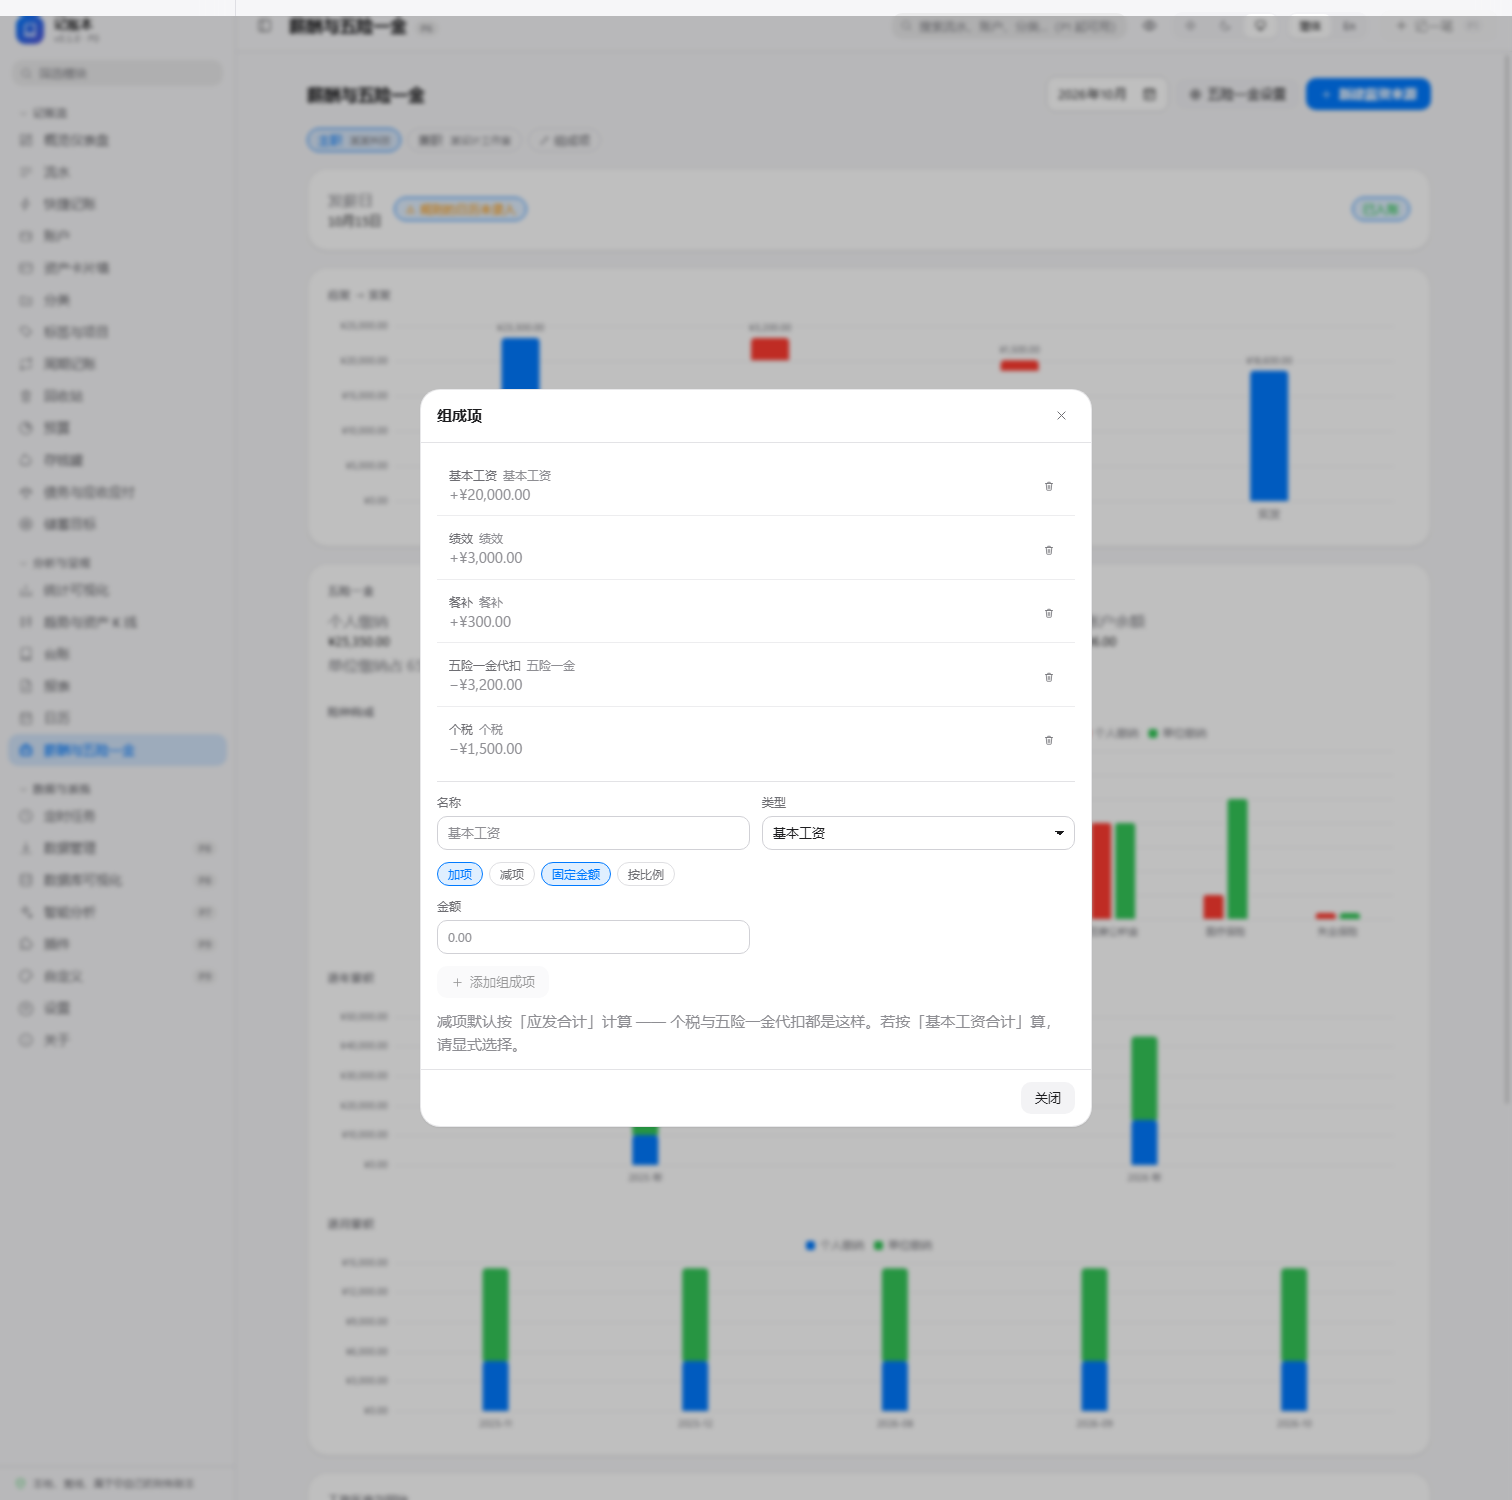
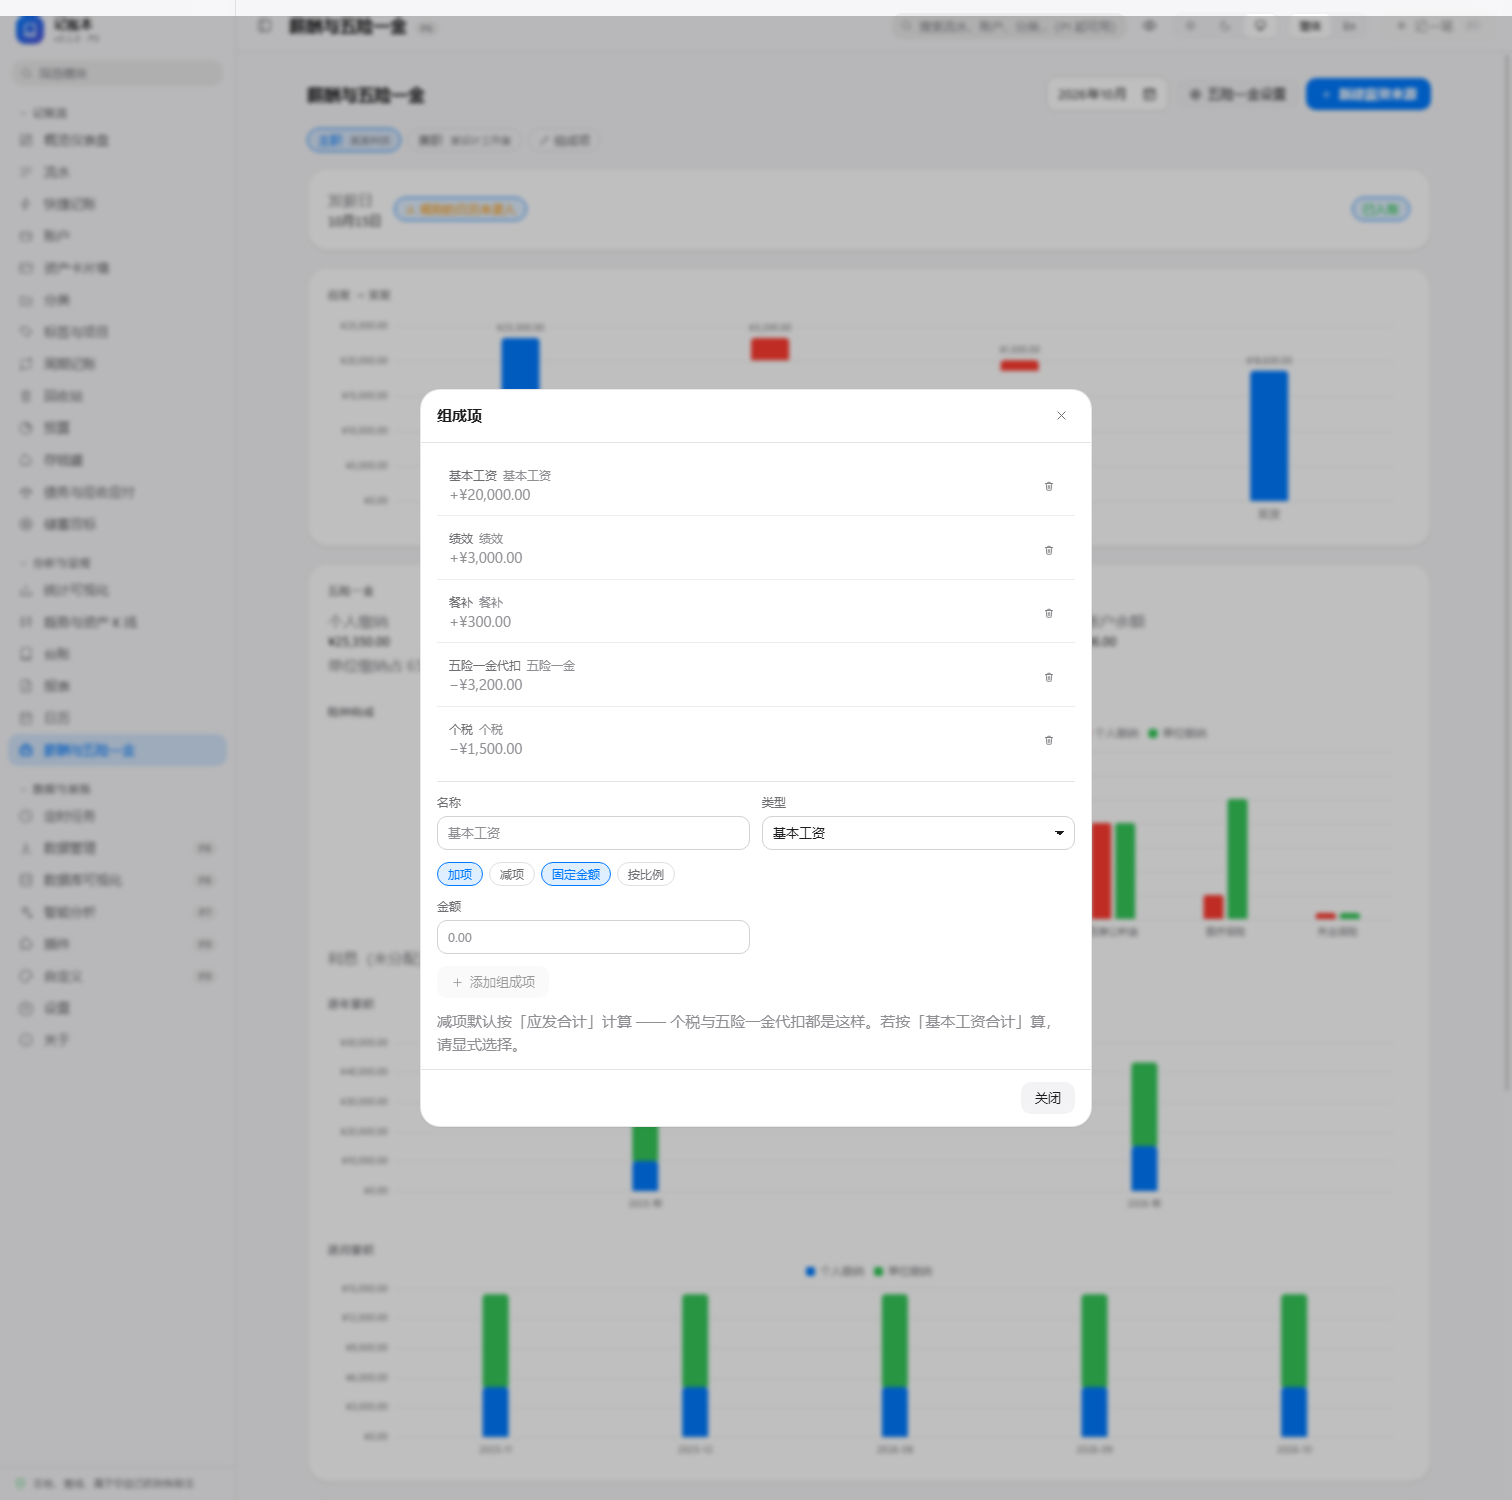
fix(P6): 补「提取记录」前端入口 + 修利息归属谎报 + 209 项用例
**一、「提取记录」原本没有前端入口。**
服务层、API 与用例一开始就齐全，但 `/payroll` 里**没有任何提取界面** ——
用户无法在应用里记一笔提取。**一个用户碰不到的功能不算交付。**

已在「五险一金设置」里补上：
* 提取列表（险种 / 原因 / 日期 / 金额 / 删除）；
* 险种 + 金额 + 日期 + 原因的表单；
* 余额不足时**把后端给的数字原样显示**，而不是只说"操作失败" ——
  后者会让用户不知道该改什么；
* 表单只列出**有个人账户**的险种（养老、医疗、公积金）。
  让失业/工伤/生育出现在这里只会让人以为可以提。

**二、利息归属曾经是错的。**
年度对账里的利息是**账户级**的，而模型里没有按险种记利息的字段。
我最初把它并进了"公积金或养老"其中之一，理由是"不留游离的键" ——
**那个理由站不住**：那笔钱被记到了一个它未必属于的账户上，
公积金的余额看着多了一截、养老的少了一截，**两处都不准**。

已改为把利息单独作为 `interest` 返回（**合计不变**，它本来就在合计里），
界面显示为「利息（未分配）」并附说明。
补两条用例：利息不混进任何险种；有多个账户时也不随便挑一个塞进去。
`docs/ACCEPTANCE_P6.md` §4 里那条"已知限制"随之改为"已修掉"。

**三、文档计数同步。**
五险一金用例 36 → 39，P6 合计 **208 → 209**；
`ACCEPTANCE_P6.md` 的 pytest 表、§2.3 标题里的数字、§1.6 的界面清单都已对齐；
§4 列表重新编号（原来因为删掉一条而跳号）。

验证
====
`pytest` 全绿（209 项），`ruff` 干净，`tsc --noEmit` 干净，`vite build` 通过。
截图重拍并核对 `p6-insurance.png`：提取列表有一条真实记录
（住房公积金 / 租房 / 2026-09-11 / −¥1,200.00）与完整表单；
同时确认了此前修的"已停用"标记与去星号的提示语。

diff --git a/web/src/pages/Payroll.tsx b/web/src/pages/Payroll.tsx
@@ -656,6 +656,18 @@ export function PayrollPage() {
                 </div>
                 {/* **逐年累积**：与逐月图各说一件事 ——
                     按月看节奏，按年看趋势。跨年的比例调整只有在按年图上才看得出来。 */}
+                {/* 利息单独列：它是账户级的，模型里没有按险种记利息的字段，
+                    因此**不摊到任何险种**上，而是明确标成"未分配" */}
+                {insurance.account_balances.interest ? (
+                  <p className="mt-1 text-ab-caption1 text-label-3">
+                    {t('payroll.unallocatedInterest')}
+                    {' '}
+                    {formatValue(insurance.account_balances.interest)}
+                    {' — '}
+                    {t('payroll.unallocatedInterestHint')}
+                  </p>
+                ) : null}
+
                 {insurance.by_year.length > 0 ? (
                   <div className="mt-3">
                     <div className="ab-section-label !px-0">{t('payroll.byYear')}</div>
@@ -1398,6 +1410,7 @@ function InsuranceDialog({
   const [profileId, setProfileId] = useState<number | null>(null)
   const [computed, setComputed] = useState<InsuranceCompute | null>(null)
   const [statement, setStatement] = useState<InsuranceStatement | null>(null)
+  const [withdrawals, setWithdrawals] = useState<InsuranceWithdrawal[]>([])
   const [busy, setBusy] = useState(false)
   const [error, setError] = useState<string | null>(null)
   const [profileOpen, setProfileOpen] = useState(false)
@@ -1412,8 +1425,14 @@ function InsuranceDialog({
     const chosen = profileId ?? profileList.items[0]?.id ?? null
     setProfileId(chosen)
     if (chosen !== null) {
-      setComputed(await api.computeInsurance(chosen))
-      setStatement(await api.insuranceStatement(chosen, Number(period.slice(0, 4))))
+      const [c, s, w] = await Promise.all([
+        api.computeInsurance(chosen),
+        api.insuranceStatement(chosen, Number(period.slice(0, 4))),
+        api.insuranceWithdrawals(chosen),
+      ])
+      setComputed(c)
+      setStatement(s)
+      setWithdrawals(w.items as unknown as InsuranceWithdrawal[])
     }
   }, [profileId, period])
 
@@ -1624,6 +1643,68 @@ function InsuranceDialog({
           </div>
         ) : null}
 
+        {/* 提取记录。**余额是算出来的**，因此提取必须是一条记录而不是"改余额" ——
+            用户从这里记一笔提取，余额会跟着减，且能追溯到日期与原因。 */}
+        {profileId !== null ? (
+          <div className="space-y-2 border-t border-separator/60 pt-3">
+            <div className="ab-section-label !px-0">{t('payroll.withdrawals')}</div>
+            {withdrawals.length === 0 ? (
+              <p className="text-ab-footnote text-label-3">{t('payroll.noWithdrawal')}</p>
+            ) : (
+              <div className="space-y-1">
+                {withdrawals.map((row) => (
+                  <div key={row.id} className="flex flex-wrap items-center gap-2 text-ab-footnote">
+                    <span className="min-w-0 flex-1 truncate text-label-2">
+                      {row.item_name}
+                      <span className="ml-1.5 text-ab-caption1 text-label-3">
+                        {t(`payroll.withdrawReason.${row.reason}`)}
+                      </span>
+                    </span>
+                    <span className="ab-tnum text-ab-caption1 text-label-3">{row.occurred_at}</span>
+                    <span className="ab-tnum text-negative">
+                      −{displayMinor(row.amount_minor, 'CNY')}
+                    </span>
+                    <button
+                      type="button"
+                      className="ab-icon-btn shrink-0 hover:text-negative"
+                      aria-label={t('common.delete')}
+                      onClick={() =>
+                        void (async () => {
+                          await api.deleteInsuranceWithdrawal(row.id)
+                          await load()
+                        })()
+                      }
+                    >
+                      <Icon name="trash" size={12} />
+                    </button>
+                  </div>
+                ))}
+              </div>
+            )}
+
+            <WithdrawalForm
+              items={computed?.items ?? []}
+              busy={busy}
+              error={error}
+              onSubmit={async (payload) => {
+                if (profileId === null) return
+                setBusy(true)
+                setError(null)
+                try {
+                  await api.addInsuranceWithdrawal({ profile_id: profileId, ...payload })
+                  await load()
+                } catch (cause) {
+                  // 余额不足是 409，要把后端给的数字原样显示出来 ——
+                  // 只说"操作失败"会让用户不知道该改什么
+                  setError(cause instanceof ApiError ? cause.detail : String(cause))
+                } finally {
+                  setBusy(false)
+                }
+              }}
+            />
+          </div>
+        ) : null}
+
         {/* 年度对账：**差异是这份报表的全部意义** */}
         {statement ? (
           <div className="space-y-2 border-t border-separator/60 pt-3">
@@ -1661,6 +1742,115 @@ function InsuranceDialog({
         }}
       />
     </Modal>
+  )
+}
+
+interface InsuranceWithdrawal {
+  id: number
+  item_id: number
+  item_name: string
+  amount_minor: number
+  occurred_at: string
+  reason: string
+}
+
+/**
+ * 记录一笔提取。
+ *
+ * 只列出**有个人账户**的险种：养老、医疗、公积金。
+ * 失业/工伤/生育没有个人账户，让它们出现在这里只会让人以为可以提。
+ */
+function WithdrawalForm({
+  items,
+  busy,
+  error,
+  onSubmit,
+}: {
+  items: { item_id: number; kind: string; name: string; to_account_minor: number }[]
+  busy: boolean
+  error: string | null
+  onSubmit: (payload: Record<string, unknown>) => Promise<void>
+}) {
+  const { t } = useI18n()
+  const eligible = items.filter((item) => item.to_account_minor > 0)
+  const [itemId, setItemId] = useState('')
+  const [amount, setAmount] = useState('')
+  const [day, setDay] = useState(() => new Date().toISOString().slice(0, 10))
+  const [reason, setReason] = useState('purchase')
+
+  useEffect(() => {
+    if (!itemId && eligible.length > 0) setItemId(String(eligible[0]!.item_id))
+    // eslint-disable-next-line react-hooks/exhaustive-deps
+  }, [eligible.length])
+
+  if (eligible.length === 0) {
+    return <p className="text-ab-caption1 text-label-3">{t('payroll.noWithdrawableAccount')}</p>
+  }
+
+  return (
+    <div className="space-y-2 rounded-ab-sm bg-surface-2/50 p-2">
+      <div className="flex flex-wrap items-center gap-2">
+        <select
+          className="ab-select !w-auto min-w-24"
+          value={itemId}
+          aria-label={t('payroll.withdrawItem')}
+          onChange={(event) => setItemId(event.target.value)}
+        >
+          {eligible.map((item) => (
+            <option key={item.item_id} value={item.item_id}>
+              {item.name}
+            </option>
+          ))}
+        </select>
+        <input
+          className="ab-input ab-tnum !w-24"
+          inputMode="decimal"
+          value={amount}
+          placeholder={t('payroll.withdrawAmount')}
+          aria-label={t('payroll.withdrawAmount')}
+          onChange={(event) => setAmount(event.target.value)}
+        />
+        <input
+          type="date"
+          className="ab-input ab-tnum !w-auto"
+          value={day}
+          aria-label={t('payroll.withdrawDate')}
+          onChange={(event) => setDay(event.target.value)}
+        />
+        <select
+          className="ab-select !w-auto"
+          value={reason}
+          aria-label={t('payroll.withdrawReasonLabel')}
+          onChange={(event) => setReason(event.target.value)}
+        >
+          {(['purchase', 'rent', 'retirement', 'medical', 'settlement', 'other'] as const).map(
+            (value) => (
+              <option key={value} value={value}>
+                {t(`payroll.withdrawReason.${value}`)}
+              </option>
+            ),
+          )}
+        </select>
+        <button
+          type="button"
+          className="ab-btn-secondary shrink-0"
+          disabled={busy || !amount || !itemId}
+          onClick={() =>
+            void onSubmit({
+              item_id: Number(itemId),
+              amount_minor: Math.round(Number(amount) * 100),
+              occurred_at: day,
+              reason,
+            })
+          }
+        >
+          <Icon name="plus" size={12} />
+          {t('payroll.addWithdrawal')}
+        </button>
+      </div>
+      {error ? <p className="text-ab-caption1 text-negative">{error}</p> : null}
+      <p className="text-ab-caption1 text-label-3">{t('payroll.withdrawHint')}</p>
+    </div>
   )
 }
 

diff --git a/web/src/i18n/en-US.ts b/web/src/i18n/en-US.ts
@@ -1182,6 +1182,21 @@ export const enUS = {
     clamped: { floor: 'floor base applied', cap: 'cap base applied' },
     recordThisPeriod: 'Record {period}',
     fillRatesFirst: 'Fill the rates first',
+    withdrawals: 'Withdrawals',
+    noWithdrawal: 'No withdrawals yet.',
+    withdrawItem: 'Item',
+    withdrawAmount: 'Amount',
+    withdrawDate: 'Date',
+    withdrawReasonLabel: 'Reason',
+    withdrawReason: {
+      purchase: 'Home purchase', rent: 'Rent', retirement: 'Retirement',
+      medical: 'Medical', settlement: 'Account closure', other: 'Other',
+    },
+    addWithdrawal: 'Add withdrawal',
+    withdrawHint: 'The balance is derived: recording a withdrawal reduces that account, and it stays traceable to a date and a reason. A withdrawal cannot exceed the balance.',
+    noWithdrawableAccount: 'No withdrawable account yet. Pension, medical and housing fund have personal accounts; unemployment, injury and maternity do not.',
+    unallocatedInterest: 'Interest (unallocated)',
+    unallocatedInterestHint: 'statement interest is account-level and not yet split by item.',
     statement: '{year} annual statement',
     computedPersonal: 'Computed (employee)',
     expectedPersonal: 'Statement (employee)',

diff --git a/web/src/i18n/zh-CN.ts b/web/src/i18n/zh-CN.ts
@@ -1156,6 +1156,21 @@ export const zhCN = {
     clamped: { floor: '已按保底基数', cap: '已按封顶基数' },
     recordThisPeriod: '记录 {period} 的缴纳',
     fillRatesFirst: '比例填齐之后才能记录',
+    withdrawals: '提取记录',
+    noWithdrawal: '还没有提取记录。',
+    withdrawItem: '险种',
+    withdrawAmount: '金额',
+    withdrawDate: '日期',
+    withdrawReasonLabel: '原因',
+    withdrawReason: {
+      purchase: '购房', rent: '租房', retirement: '退休',
+      medical: '医疗', settlement: '离职销户', other: '其它',
+    },
+    addWithdrawal: '记录提取',
+    withdrawHint: '余额是算出来的：记一笔提取，对应账户的余额会跟着减少，并且能追溯到日期与原因。提取不能超过余额。',
+    noWithdrawableAccount: '还没有可提取的账户。养老、医疗、公积金有个人账户；失业、工伤、生育没有。',
+    unallocatedInterest: '利息（未分配）',
+    unallocatedInterestHint: '对账单上的利息是账户级的，尚未分配到具体险种。',
     statement: '{year} 年度对账',
     computedPersonal: '系统算出（个人）',
     expectedPersonal: '对账单（个人）',

diff --git a/tests/test_insurance.py b/tests/test_insurance.py
@@ -348,13 +348,35 @@ class TestBalancesAndWithdrawals:
         insurance.delete_withdrawal(session, row.id)
         assert insurance.account_balances(session, profile_id=profile.id)["housing_fund"] == 240_000
 
-    def test_interest_from_the_statement_enters_the_balance(self, session) -> None:
-        """利息由用户录 —— 利率因城市与年份而异，我不编。"""
+    def test_interest_is_kept_unallocated(self, session) -> None:
+        """利息由用户录（利率因城市与年份而异，我不编），但**不摊到某个险种上**。
+
+        对账单上的利息是**账户级**的，而模型里没有按险种记利息的字段。
+        早先把它并进"公积金或养老"其中之一，结果是那笔钱被记到一个
+        **它未必属于**的账户上：公积金看着多了一截、养老少了一截，两处都不准。
+        """
         profile = self._funded(session)
-        before = insurance.account_balances(session, profile_id=profile.id)["housing_fund"]
+        before = insurance.account_balances(session, profile_id=profile.id)
         insurance.upsert_statement(session, profile.id, 2026, interest_minor=5_000)
-        after = insurance.account_balances(session, profile_id=profile.id)["housing_fund"]
-        assert after == before + 5_000
+        after = insurance.account_balances(session, profile_id=profile.id)
+
+        # 单独的键，不混进任何险种
+        assert after["interest"] == 5_000
+        assert after["housing_fund"] == before["housing_fund"]
+        # 合计仍然包含它
+        assert sum(after.values()) == sum(before.values()) + 5_000
+
+    def test_interest_does_not_corrupt_a_named_account(self, session) -> None:
+        """有多个账户时也不能随便挑一个塞进去。"""
+        profile = self._funded(session)
+        insurance.upsert_item(session, kind="pension", personal_rate_bps=800)
+        insurance.record_contribution(session, profile.id, PERIOD)
+        before = insurance.account_balances(session, profile_id=profile.id)
+        insurance.upsert_statement(session, profile.id, 2026, interest_minor=8_600)
+        after = insurance.account_balances(session, profile_id=profile.id)
+        for kind in ("housing_fund", "pension"):
+            assert after[kind] == before[kind], f"{kind} 不该被塞进利息"
+        assert after["interest"] == 8_600
 
 
 # -----------------------------------------------------------------------------

diff --git a/src/accountbook/services/insurance.py b/src/accountbook/services/insurance.py
@@ -619,8 +619,9 @@ def account_balances(session: Session, *, profile_id: int | None = None) -> dict
         )
     )
     if interest:
-        # 利息归到公积金与养老两个最常见的账户；没有明细时记为 total
-        balances["total_interest"] = int(interest)
+        # **利息单独一个键，不摊到任何险种。** 对账单上的利息是账户级的，
+        # 而模型里没有按险种记利息的字段 —— 塞进某个险种等于谎报归属。
+        balances["interest"] = int(interest)
 
     withdraw_conditions = []
     if profile_id is not None:
@@ -634,11 +635,15 @@ def account_balances(session: Session, *, profile_id: int | None = None) -> dict
     for kind, amount in withdrawn_rows:
         balances[str(kind)] = balances.get(str(kind), 0) - int(amount)
 
-    if "total_interest" in balances:
-        # 把利息并进"最常见的有账户的险种"里，而不是留一个游离的键
-        interest_amount = balances.pop("total_interest")
-        target = "housing_fund" if "housing_fund" in balances else "pension"
-        balances[target] = balances.get(target, 0) + interest_amount
+    # **利息不摊到任何险种上。**
+    #
+    # 早先的写法是把它并进"公积金或养老"其中之一，理由是"不留游离的键"。
+    # 那个理由站不住：对账单上的利息是**账户级**的，而模型里没有按险种记利息
+    # 的字段，于是那笔钱被记到了一个**它未必属于**的账户上 ——
+    # 公积金的余额看起来多了一截，而养老的少了一截，两处都不准。
+    #
+    # 现在单独作为 `interest` 返回，界面显示成"利息（未分配）"。
+    # 合计不变（它本来就在合计里），但**不再谎报归属**。
     return balances
 
 
